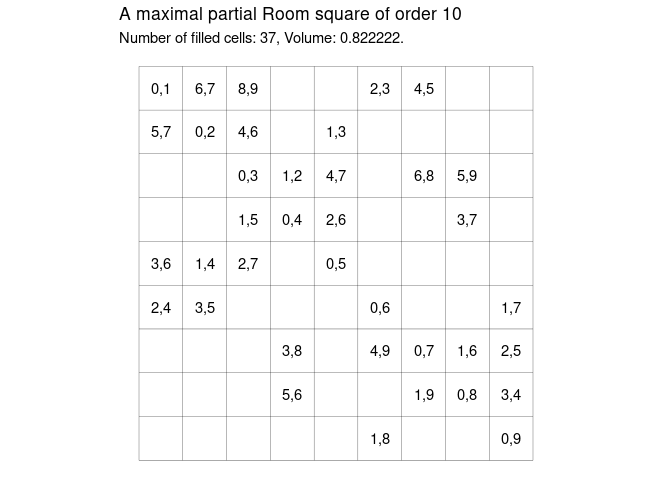
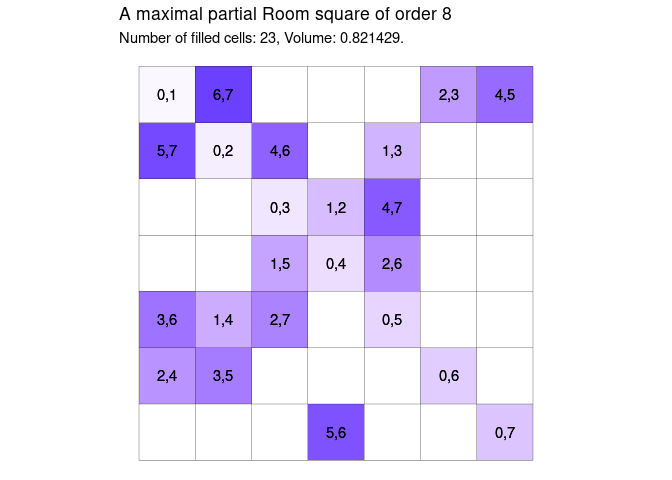
implement cell visit order

diff --git a/README.md b/README.md
@@ -18,17 +18,14 @@ available pair such that the conditions of being a partial Room square
 will not be violated.
 
 ``` r
-library(tictoc)
-
-n <- 10
-
-tic()
-R <- greedy1(n)
-toc()
-#> 0.173 sec elapsed
+R <- greedy1(8)
+plot_room_square(R)
 ```
 
 ![](figure/greedy1_example_plot-1.png)<!-- -->
+
+In this plot colour represents the order in which cells were filled. The
+cells were filled in order from lightest to darkest.
 
 ``` r
 # is R a maximal partial Room square?
@@ -43,15 +40,14 @@ the first available cell such that the conditions of being a partial
 Room square are not violated.
 
 ``` r
-n <- 10
-
-tic()
-R <- greedy2(n)
-toc()
-#> 0.264 sec elapsed
+R <- greedy2(8)
+plot_room_square(R)
 ```
 
 ![](figure/greedy2_example_plot-1.png)<!-- -->
+
+Again colour represents order of filling, proceeding from lightest to
+darkest.
 
 ``` r
 # is R a maximal partial Room square?
